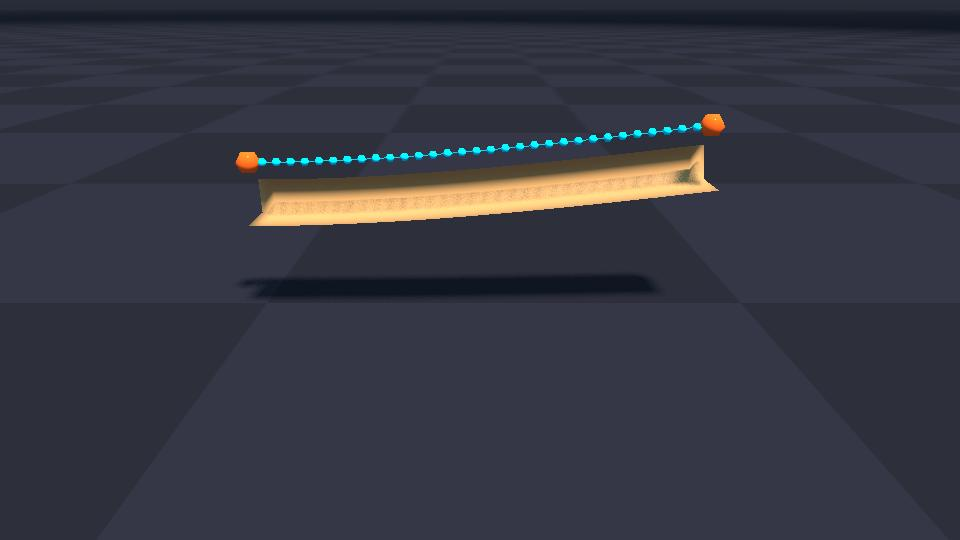
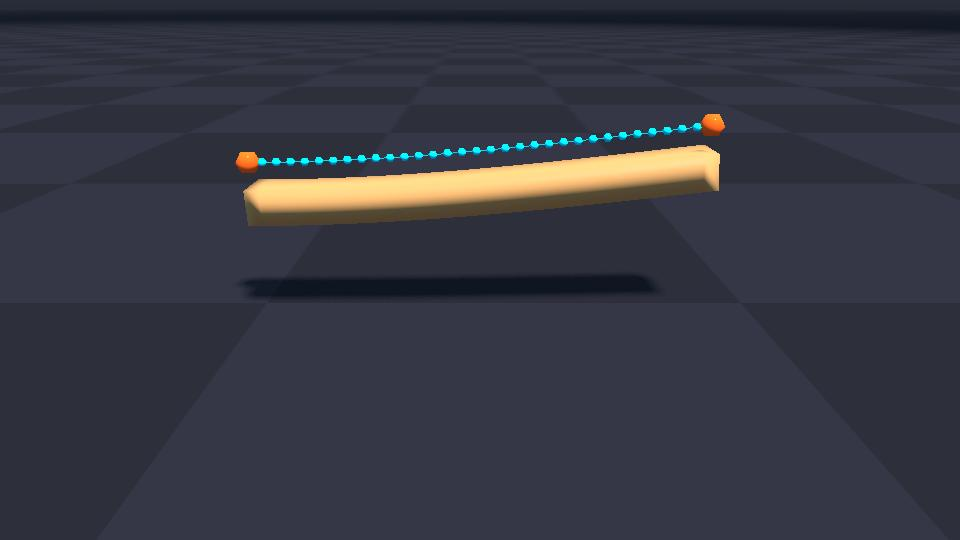
Fix elastic render mesh winding
Correct the generated subdivided box triangle winding so ViewerGL backface culling shows exterior faces instead of interior faces.

Increase the visibility of the four-bar and torsion mesh deformation, add a winding regression test, and regenerate/cache-bust the report videos.

Changed region(s): [[0.25, 0.2667, 0.75, 0.4444]]

diff --git a/newton/tests/test_reduced_elastic_body.py b/newton/tests/test_reduced_elastic_body.py
@@ -216,6 +216,30 @@ def test_elastic_shape_mesh_sampling(test, device):
     np.testing.assert_allclose(phi[right, 1], 0.0, atol=1.0e-6)
 
 
+def test_elastic_shape_box_winding(test, device):
+    hx = 0.5
+    hy = 0.05
+    hz = 0.03
+
+    builder = newton.ModelBuilder(gravity=0.0)
+    body = builder.add_body_elastic(mass=1.0, inertia=_identity_inertia(), mode_count=1)
+    builder.add_shape_box(body, hx=hx, hy=hy, hz=hz)
+    builder.color()
+    model = builder.finalize(device=device)
+
+    vertices = model.elastic_shape_vertex_local.numpy()
+    indices = model.elastic_shape_indices.numpy()
+    test.assertGreater(len(indices), 36)
+
+    for tri in indices.reshape((-1, 3)):
+        a, b, c = vertices[tri]
+        normal = np.cross(b - a, c - a)
+        center = (a + b + c) / 3.0
+        axis = int(np.argmax(np.abs(center / np.array([hx, hy, hz], dtype=np.float32))))
+        expected_sign = 1.0 if center[axis] > 0.0 else -1.0
+        test.assertGreater(float(normal[axis] * expected_sign), 0.0)
+
+
 def test_torsion_render_shape_sampling(test, device):
     length = 1.0
     hy = 0.06
@@ -506,6 +530,12 @@ for device in devices:
         TestReducedElasticBody,
         "test_elastic_shape_mesh_sampling",
         test_elastic_shape_mesh_sampling,
+        devices=[device],
+    )
+    add_function_test(
+        TestReducedElasticBody,
+        "test_elastic_shape_box_winding",
+        test_elastic_shape_box_winding,
         devices=[device],
     )
     add_function_test(

diff --git a/newton/examples/basic/example_basic_reduced_elastic_fourbar.py b/newton/examples/basic/example_basic_reduced_elastic_fourbar.py
@@ -73,7 +73,7 @@ class Example:
         self.d = 0.75
         self.z = 0.12
         self.theta2_0 = 0.75
-        self.mode_q0 = np.array([0.08, 0.05, 0.0], dtype=np.float32)
+        self.mode_q0 = np.array([0.08, 0.08, 0.0], dtype=np.float32)
 
         theta3, theta4 = _solve_fourbar(self.theta2_0, self.a, self.b_rest + float(self.mode_q0[0]), self.c, self.d)
         A = np.array([0.0, 0.0, self.z])
@@ -102,8 +102,8 @@ class Example:
             inertia=inertia,
             mode_count=3,
             mode_mass=[0.04, 0.035, 0.035],
-            mode_stiffness=[10.0, 22.0, 352.0],
-            mode_damping=[0.3, 0.35, 0.7],
+            mode_stiffness=[10.0, 18.0, 288.0],
+            mode_damping=[0.3, 0.3, 0.65],
             mode_q=self.mode_q0,
             mode_shape_fn=self._mode_shape,
             label="elastic_coupler",
@@ -118,7 +118,7 @@ class Example:
         shape_cfg = newton.ModelBuilder.ShapeConfig()
         shape_cfg.density = 0.0
         builder.add_shape_box(self.crank, hx=self.a / 2.0, hy=0.035, hz=0.025, cfg=shape_cfg)
-        builder.add_shape_box(self.coupler, hx=self.b_rest / 2.0, hy=0.028, hz=0.025, cfg=shape_cfg)
+        builder.add_shape_box(self.coupler, hx=self.b_rest / 2.0, hy=0.05, hz=0.03, cfg=shape_cfg)
         builder.add_shape_box(self.rocker, hx=self.c / 2.0, hy=0.035, hz=0.025, cfg=shape_cfg)
 
         self.j_drive = builder.add_joint_revolute(
@@ -242,8 +242,8 @@ class Example:
 
         self._joint_f[:] = 0.0
         self._joint_f[self.elastic_qd_start + 6] = 1.1 * math.sin(4.2 * t)
-        self._joint_f[self.elastic_qd_start + 7] = 0.8 * math.sin(3.0 * t)
-        self._joint_f[self.elastic_qd_start + 8] = 4.0 * math.cos(2.4 * t)
+        self._joint_f[self.elastic_qd_start + 7] = 1.4 * math.sin(3.0 * t)
+        self._joint_f[self.elastic_qd_start + 8] = 7.0 * math.cos(2.4 * t)
         self.control.joint_f.assign(self._joint_f)
 
     def simulate(self):

diff --git a/newton/_src/sim/builder.py b/newton/_src/sim/builder.py
@@ -9593,10 +9593,10 @@ class ModelBuilder:
         for i in range(segments):
             base = 4 * i
             nxt = base + 4
-            add_quad(base + 0, nxt + 0, nxt + 1, base + 1)
-            add_quad(base + 1, nxt + 1, nxt + 2, base + 2)
-            add_quad(base + 2, nxt + 2, nxt + 3, base + 3)
-            add_quad(base + 3, nxt + 3, nxt + 0, base + 0)
+            add_quad(base + 0, base + 1, nxt + 1, nxt + 0)
+            add_quad(base + 1, base + 2, nxt + 2, nxt + 1)
+            add_quad(base + 2, base + 3, nxt + 3, nxt + 2)
+            add_quad(base + 3, base + 0, nxt + 0, nxt + 3)
 
         add_quad(0, 3, 2, 1)
         end = 4 * segments